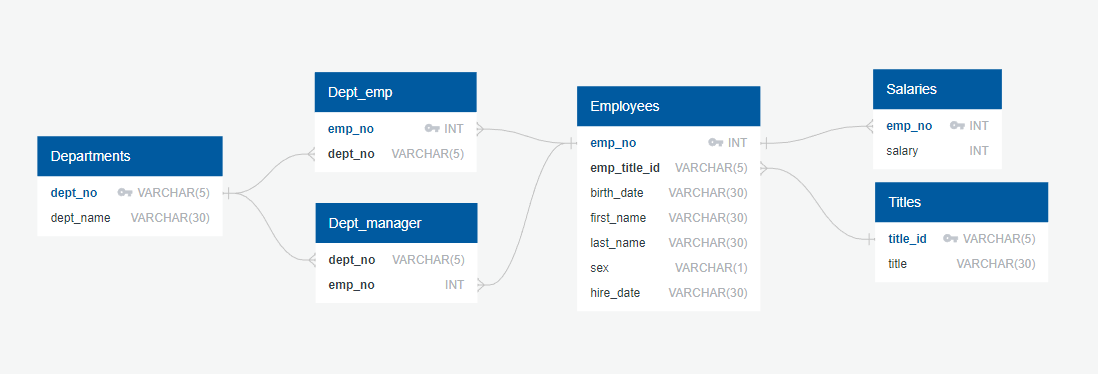
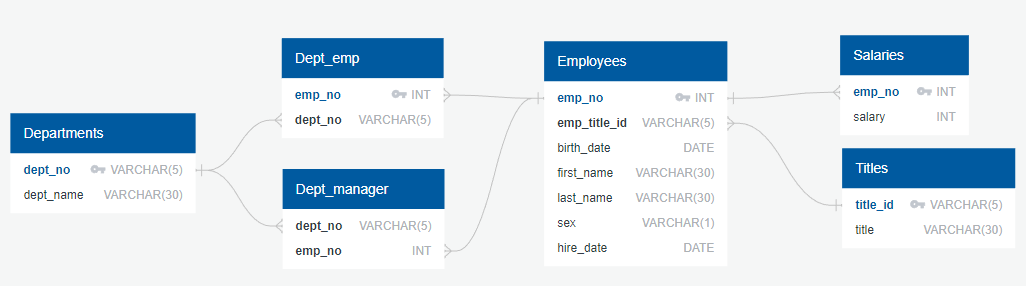
Edit ERD

diff --git a/README.md b/README.md
@@ -23,11 +23,11 @@ Employees
 -
 emp_no INT PK
 emp_title_id VARCHAR(5) FK >- Titles.title_id
-birth_date VARCHAR(30)
+birth_date DATE
 first_name VARCHAR(30)
 last_name VARCHAR(30)
 sex VARCHAR(1)
-hire_date VARCHAR(30)
+hire_date DATE
 
 Salaries
 - 
@@ -38,4 +38,3 @@ Titles
 - 
 title_id VARCHAR(5) PK 
 title VARCHAR(30)
-
